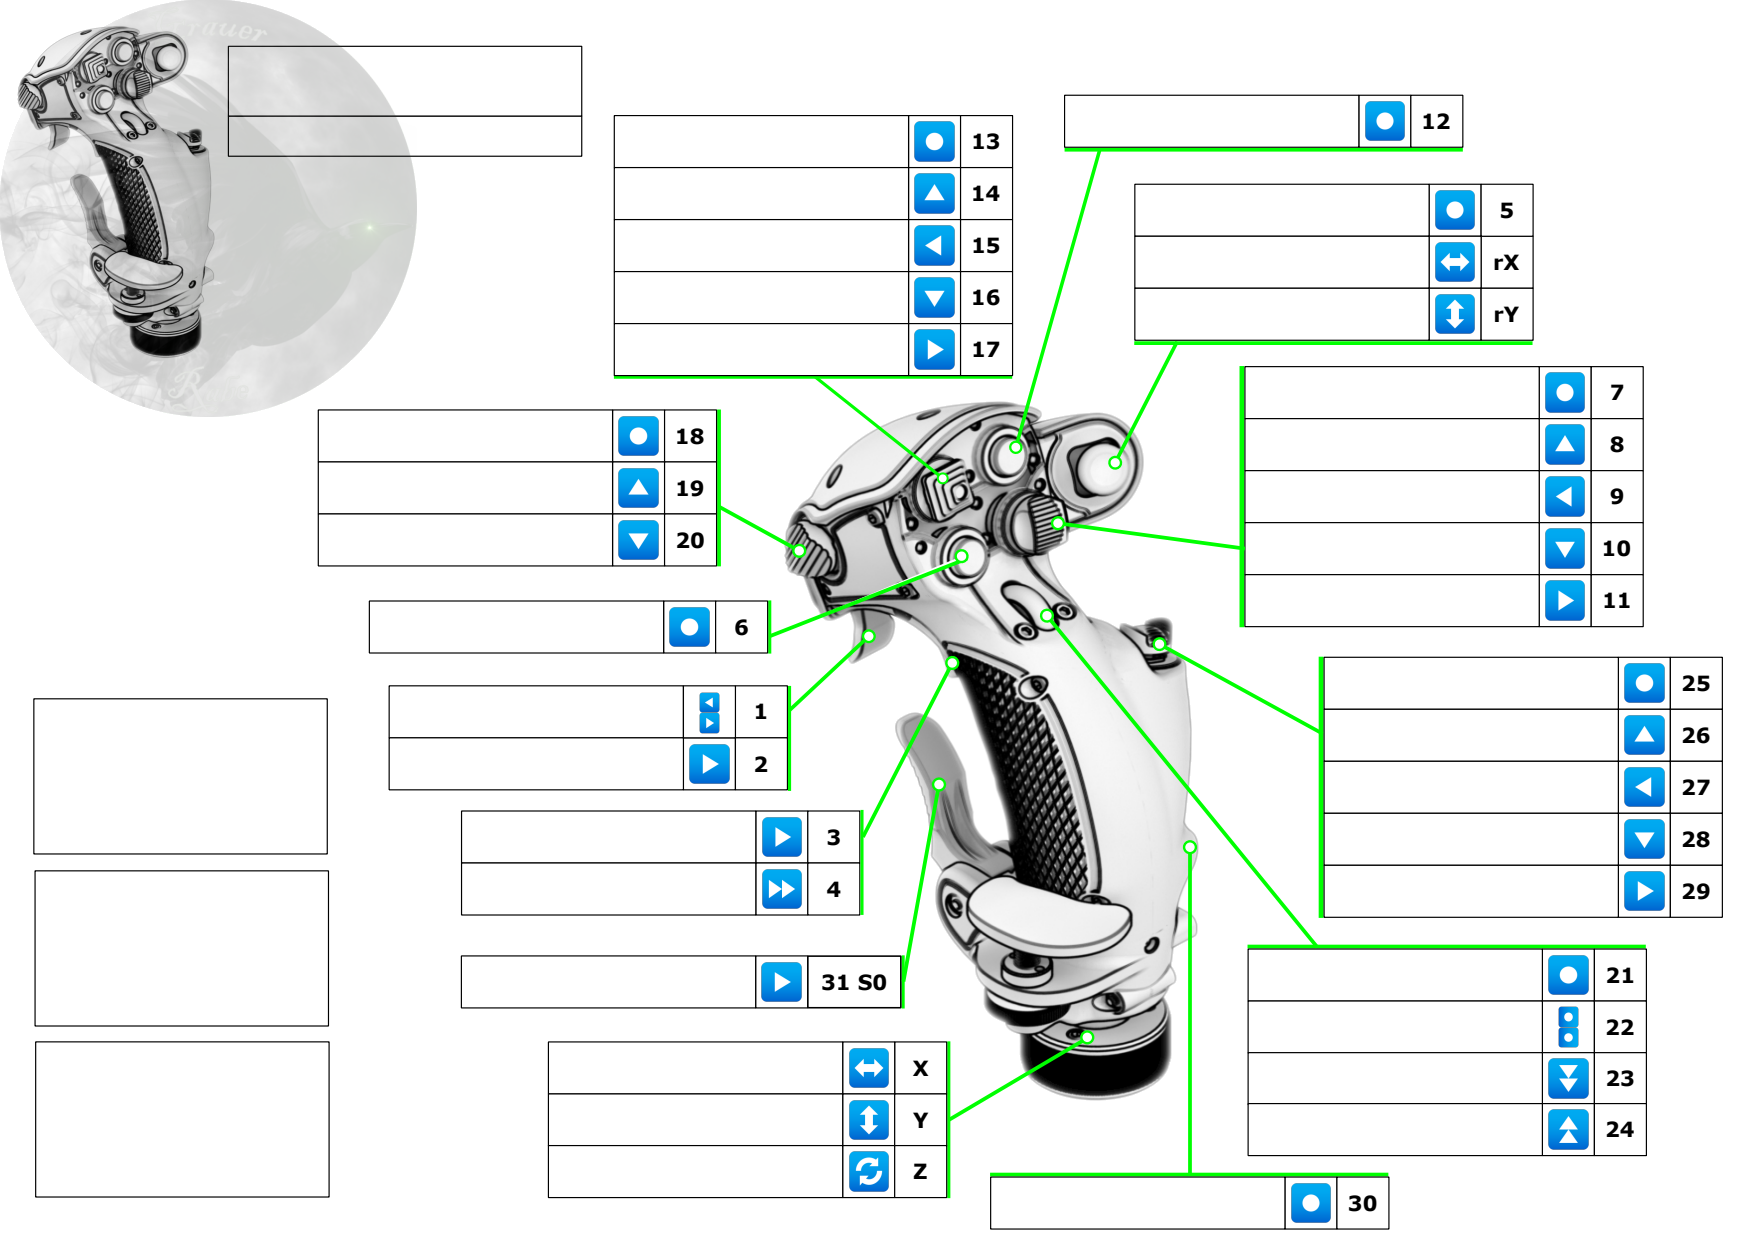
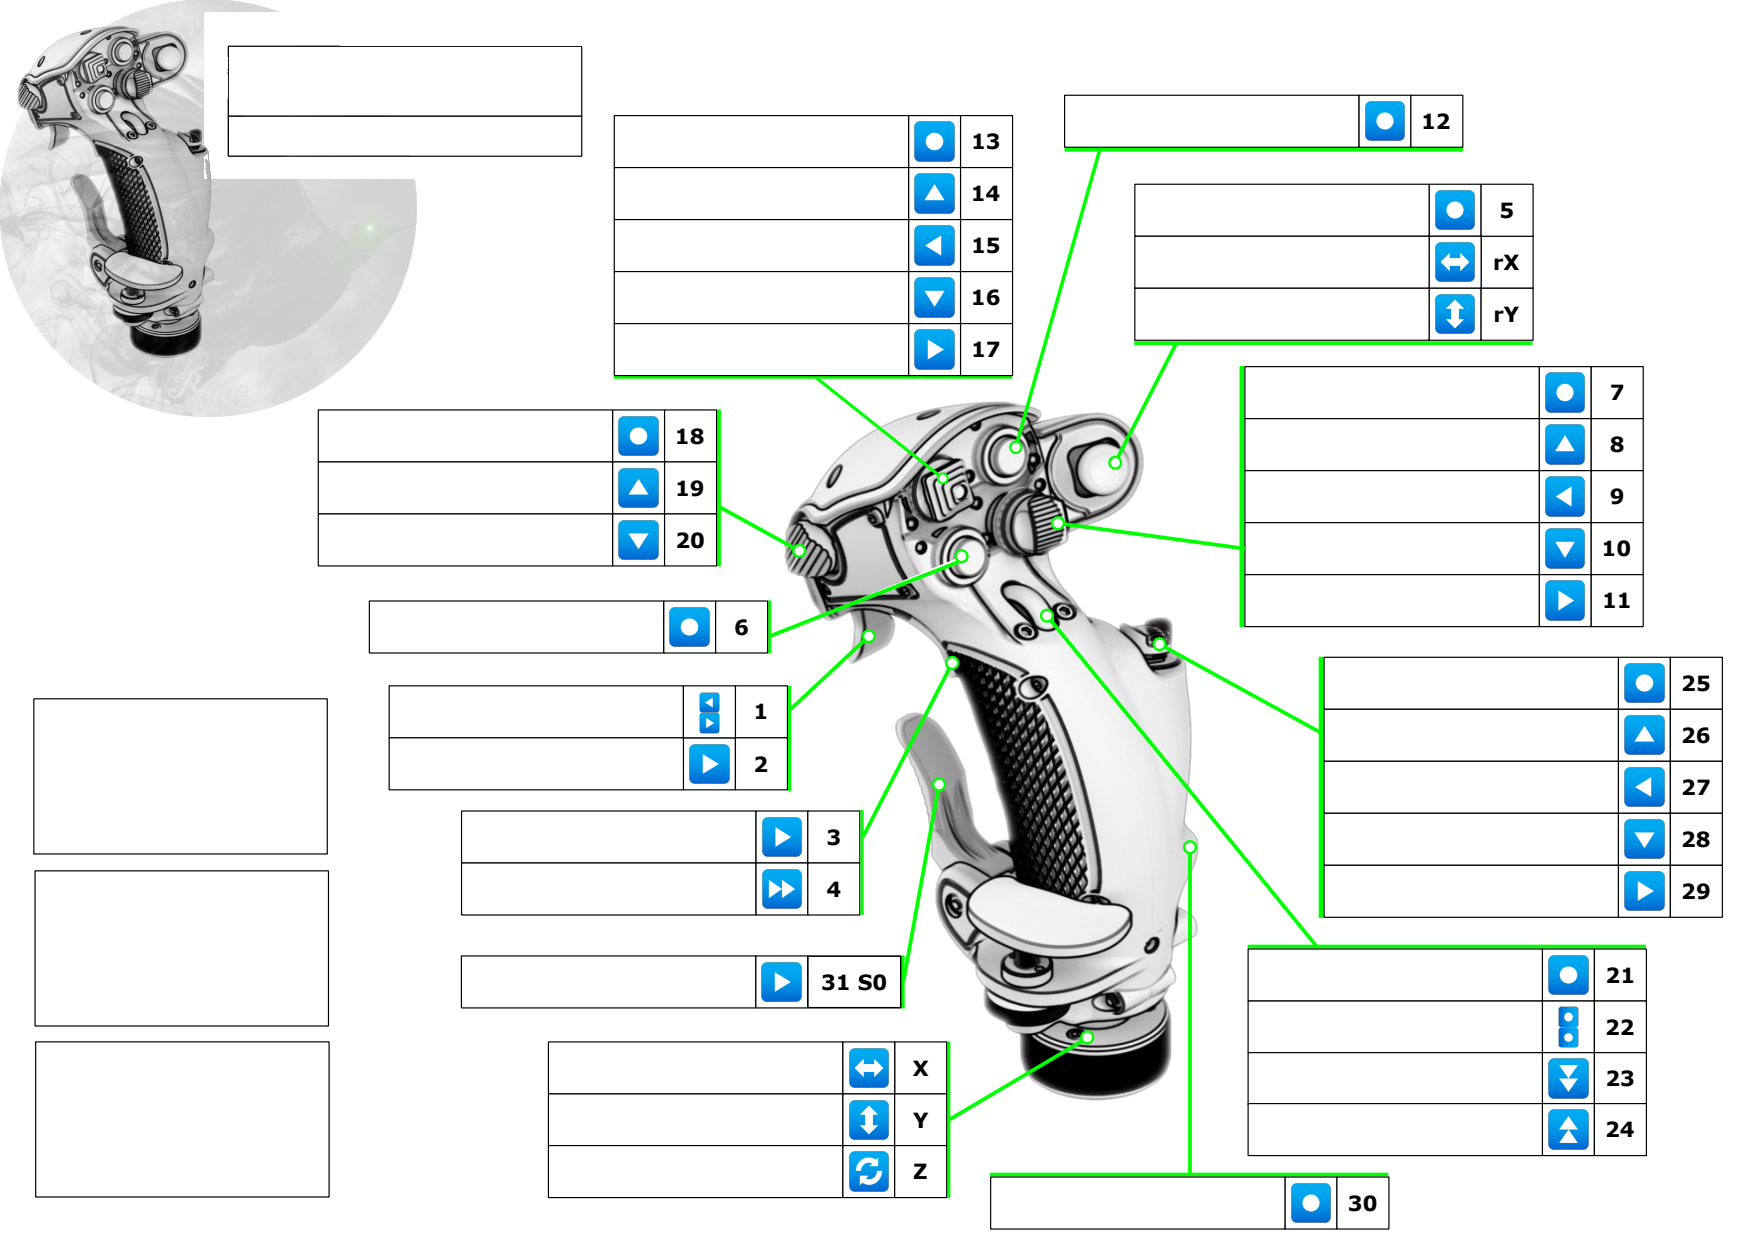
fix(vkb-template): innere weiße Boxen transparent gemacht (v0.4.16)
largeArea-Schwellwert in remove-bg.mjs von 200 auf 1 gesenkt,
damit auch kleine von Verbindungslinien eingeschlossene weiße Regionen
transparent werden.

Changed region(s): [[0.0923, 0.0, 0.2462, 0.1531]]

diff --git a/index.html b/index.html
@@ -333,7 +333,7 @@
 <div id="header">
   <div class="brand">
     <h1>⬡ Joystick-Map</h1>
-    <span class="version-badge" id="header-version">v0.4.15</span>
+    <span class="version-badge" id="header-version">v0.4.16</span>
   </div>
   <div class="hdr-actions">
     <div class="stick-picker" id="stickPicker">
@@ -512,10 +512,10 @@
   </div>
 </div>
 
-<div id="statusbar">STATUS: <span id="statmsg">Bereit</span> &nbsp;|&nbsp; Geändert: <span id="changed-count">0</span> &nbsp;|&nbsp; Version: <span id="app-version">v0.4.15</span> &nbsp;|&nbsp; Update: <span id="update-status">prüfen...</span></div>
+<div id="statusbar">STATUS: <span id="statmsg">Bereit</span> &nbsp;|&nbsp; Geändert: <span id="changed-count">0</span> &nbsp;|&nbsp; Version: <span id="app-version">v0.4.16</span> &nbsp;|&nbsp; Update: <span id="update-status">prüfen...</span></div>
 
 <script>
-const APP_VERSION = 'v0.4.15';
+const APP_VERSION = 'v0.4.16';
 const UPDATE_API_URL = 'https://api.github.com/repos/Xharig-1/Joystick-Map/releases/latest';
 const FIELDS_L = [{"name":"Titel","value":"Constellation Alpha L","left":109.7,"top":22.62,"width":169.4,"height":33.6},{"name":"Untertitel","value":"Star Citizen               v4.8.0-live","left":109.7,"top":56.48,"width":169.4,"height":19.2},{"name":"13","value":"Frachtanfrage\nAutomatische Landung\nVTOL (Toggle)\nAndocken","left":294.7,"top":56.03,"width":141.15,"height":24.95},{"name":"14","value":"Docking Modus","left":294.7,"top":81.23,"width":141.15,"height":24.95},{"name":"15","value":"Konfiguration wechseln\nFlügel ausklappen","left":295.45,"top":106.18,"width":141.15,"height":24.95},{"name":"16","value":"Landeerlaubnis / ATC\nLandegestell (Toggle)","left":294.7,"top":131.13,"width":141.15,"height":24.75},{"name":"17","value":"Türen (Toggle)","left":294.7,"top":155.63,"width":141.15,"height":24.95},{"name":"18","value":"Energie Gesamt (Toggle)","left":151.9,"top":197.38,"width":141.1,"height":24.95},{"name":"19","value":"Antriebe Energie (Toggle)","left":151.9,"top":222.33,"width":141.1,"height":24.95},{"name":"20","value":"Energie → Antriebe\nEnergie → Schilde\nEnergie → Waffen","left":151.9,"top":246.53,"width":141.1,"height":25},{"name":"6","value":"Ferngeschütz 1\nFerngeschütz 2\nFerngeschütz 3","left":176.35,"top":288.33,"width":141.15,"height":24.95},{"name":"1","value":"Waffenmodus","left":185.95,"top":328.88,"width":141.15,"height":24.95},{"name":"2","value":"Raketenmodus","left":185.95,"top":353.83,"width":141.15,"height":24.95},{"name":"3","value":"Nachbrenner\nBoost","left":220.75,"top":389.13,"width":141.15,"height":24.95},{"name":"4","value":"Spacebrake\nBremse","left":220.75,"top":414.28,"width":141.15,"height":24.7},{"name":"31 S0","value":"Rakete abfeuern (Kino)\nRakete abfeuern (Kino halten)\nScheinwerfer (Toggle)\nHead Tracking (Toggle)","left":220.55,"top":458.48,"width":141.1,"height":24.95},{"name":"X","value":"Strafe links/rechts\nYaw links/rechts","left":262.3,"top":499.48,"width":141.1,"height":25},{"name":"Y","value":"Strafe hoch/runter\nPitch hoch/runter","left":262.3,"top":524.73,"width":141.1,"height":24.7},{"name":"Z","value":"Rollen","left":262.3,"top":549.43,"width":141.1,"height":24.95},{"name":"12","value":"Decoupled (Toggle)","left":510.7,"top":45.68,"width":141.15,"height":24.95},{"name":"5","value":"3rd Person Kamera","left":544.3,"top":88.38,"width":141.4,"height":24.95},{"name":"rX","value":"Umsehen: Nach links/rechts","left":544.3,"top":113.33,"width":141.4,"height":25},{"name":"rY","value":"Umsehen: Nach oben/unten","left":544.3,"top":138.33,"width":141.4,"height":24.95},{"name":"7","value":"Ziel im Sichtbereich\nZiel Sichtbereich (Reset)","left":597.1,"top":175.73,"width":141.4,"height":25},{"name":"8","value":"Feind durchschalten\nFeind (Reset)","left":597.1,"top":200.73,"width":141.4,"height":24.95},{"name":"9","value":"Freund durchschalten\nFreund (Reset)","left":597.1,"top":225.68,"width":141.4,"height":24.95},{"name":"10","value":"Ziel freigeben","left":597.1,"top":250.63,"width":141.4,"height":24.95},{"name":"11","value":"Angreifer zurück\nAngreifer vor","left":597.1,"top":275.58,"width":141.4,"height":24.95},{"name":"25","value":"IR Flare abfeuern","left":635.3,"top":315.18,"width":141.1,"height":24.95},{"name":"26","value":"IR Flare +","left":635.3,"top":340.13,"width":141.1,"height":25},{"name":"27","value":"Ping","left":635.3,"top":365.13,"width":141.1,"height":24.95},{"name":"28","value":"IR Flare -","left":635.3,"top":390.08,"width":141.1,"height":24.95},{"name":"29","value":"Erweitertes HUD (Toggle)","left":635.3,"top":415.78,"width":141.1,"height":24.95},{"name":"21","value":"Bergbau Modus\nBetankung Modus\nBergung Modus","left":598.8,"top":455.13,"width":141.1,"height":24.95},{"name":"22","value":"Nachtsicht LAMP","left":598.8,"top":480.08,"width":141.1,"height":24.95},{"name":"23","value":"Speed Limit -\nTraktorstrahl -","left":598.8,"top":505.03,"width":141.1,"height":24.25},{"name":"24","value":"Speed Limit +\nTraktorstrahl +","left":598.8,"top":529.28,"width":141.1,"height":24.95},{"name":"30","value":"Rakete abfeuern (Kino)\nRakete abfeuern (Kino halten)\nScheinwerfer (Toggle)\nHead Tracking (Toggle)","left":475.78,"top":565.29,"width":141.1,"height":24.95},{"name":"Anmerkung 1","value":"FEHLT NOCH:\nEnergie Verteilung\nSchilde Energie (Toggle)\nPraezisions Modus (Halten / Tippen)\nSchub Forward / Backward","left":15.55,"top":335.13,"width":140.65,"height":74.6},{"name":"Anmerkung 2","value":"3,0       5,7\n2,1       3,6\n900m","left":16.05,"top":417.68,"width":140.9,"height":74.4},{"name":"Anmerkung 3","value":"","left":16.3,"top":499.98,"width":140.85,"height":74.4}];
 const FIELDS_R = [{"name":"Titel","value":"Constellation Alpha R","left":109.7,"top":22.13,"width":169.4,"height":33.6},{"name":"Untertitel","value":"Star Citizen               v4.8.0-live","left":109.7,"top":55.73,"width":169.4,"height":19.2},{"name":"12","value":"Lead/Lag PIPs","left":356.9,"top":37.98,"width":141.1,"height":24.95},{"name":"5","value":"Bombenabwurf (halten)","left":233.3,"top":88.38,"width":141.35,"height":24.95},{"name":"rX","value":"","left":233.3,"top":113.33,"width":141.35,"height":25},{"name":"rY","value":"","left":233.3,"top":138.33,"width":141.35,"height":24.95},{"name":"7","value":"QID festlegen","left":131.8,"top":175.73,"width":141.1,"height":25},{"name":"8","value":"Q-Snare QIDS","left":131.05,"top":200.73,"width":141.1,"height":24.95},{"name":"9","value":"Bergung: Structural","left":131.05,"top":226.18,"width":141.1,"height":24.95},{"name":"10","value":"Q-Störer QEDS","left":131.05,"top":250.63,"width":141.1,"height":24.95},{"name":"11","value":"EMP","left":131.05,"top":275.58,"width":141.1,"height":24.95},{"name":"25","value":"Bergbau Laser Typ\nNächster Raketentyp\nRaketentyp wechseln","left":93.1,"top":315.18,"width":141.15,"height":24.95},{"name":"26","value":"Raketen erhöhen","left":93.1,"top":340.13,"width":141.15,"height":25},{"name":"27","value":"ADS max. Zoom (halten)\nADS (Toggle)","left":93.1,"top":365.13,"width":141.15,"height":24.95},{"name":"28","value":"Raketen verringern","left":93.85,"top":390.08,"width":141.15,"height":24.95},{"name":"29","value":"Raketen zurücksetzen","left":93.1,"top":415.03,"width":141.15,"height":24.95},{"name":"21","value":"Scan Modus","left":129.6,"top":454.38,"width":141.1,"height":25.7},{"name":"22","value":"Scan Fokus -\nBergung Schmaler\nKonvergenz -\nBombenreichweite -","left":129.6,"top":480.08,"width":141.1,"height":24.95},{"name":"23","value":"Scan Fokus -\nBergung Schmaler\nKonvergenz -\nBombenreichweite -","left":129.6,"top":505.03,"width":141.1,"height":24.25},{"name":"24","value":"Scan Fokus +\nBergung Breiter\nKonvergenz +\nBombenreichweite +","left":131.1,"top":529.28,"width":141.1,"height":24.95},{"name":"30","value":"","left":252.62,"top":564.8,"width":141.1,"height":24.95},{"name":"13","value":"Bergung: Structural","left":528.95,"top":72.58,"width":141.1,"height":24.95},{"name":"14","value":"Bergung: Auflösen","left":529.7,"top":96.78,"width":141.1,"height":24.95},{"name":"15","value":"Bergbau: Abwerfen\nBergung: Rechts","left":530.45,"top":121.48,"width":141.1,"height":25},{"name":"16","value":"Bergung: Zerbrechen","left":529.7,"top":147.48,"width":141.1,"height":24.95},{"name":"17","value":"Bergung: Links","left":529.7,"top":172.43,"width":141.1,"height":24.95},{"name":"18","value":"Radar Flare","left":575.25,"top":205.23,"width":141.15,"height":24.75},{"name":"19","value":"IR Flare Panik","left":575.5,"top":229.98,"width":141.15,"height":24.95},{"name":"20","value":"Bergung: Zerbrechen","left":575.5,"top":254.93,"width":141.15,"height":24.95},{"name":"6","value":"","left":551.05,"top":292.38,"width":141.1,"height":24.95},{"name":"1","value":"SCM Modus","left":542.45,"top":329.63,"width":141.1,"height":24.95},{"name":"2","value":"NAV Modus","left":541.7,"top":354.58,"width":141.1,"height":24.95},{"name":"3","value":"Quantensprung\nQuantenantrieb\nScannen (halten)\nBergbau Laser (halten)\nBergung: Fokus\nSchuss / Primärwaffe\nRakete abfeuern","left":506.15,"top":389.13,"width":141.1,"height":24.95},{"name":"4","value":"Quantensprung\nQuantenantrieb\nScannen (halten)\nBergbau Laser (halten)\nBergung: Fokus\nSchuss / Primärwaffe\nRakete abfeuern","left":506.9,"top":414.08,"width":141.1,"height":24.7},{"name":"31 S0","value":"Schleudersitz\nSelbstzerstörung","left":506.15,"top":459.48,"width":141.1,"height":24.7},{"name":"x","value":"","left":465.1,"top":499.73,"width":141.15,"height":25},{"name":"Y","value":"","left":465.1,"top":524.73,"width":141.15,"height":24.7},{"name":"Z","value":"","left":465.1,"top":549.43,"width":141.15,"height":24.95},{"name":"Anmerkung 1","value":"","left":688.3,"top":26.73,"width":140.9,"height":74.4},{"name":"Anmerkung 2","value":"","left":689.25,"top":108.33,"width":140.65,"height":74.4},{"name":"Anmerkung 3","value":"","left":682.3,"top":422.73,"width":140.65,"height":74.4},{"name":"Anmerkung 4","value":"","left":683.75,"top":503.58,"width":140.9,"height":74.4}];

diff --git a/README.md b/README.md
@@ -7,16 +7,15 @@ Der Stick wird im Header ausgewaehlt, die passende Vorlage laedt automatisch.
 
 Das Projekt ist eine fruehe Testversion und darf gern ausprobiert werden.
 
-## Was ist neu — v0.4.15
+## Was ist neu — v0.4.16
 
-- **Transparente Template-Hintergründe** — weißer Seitenrand der Vorlagen entfernt, Eingabefelder bleiben weiß
-- Sieht in Dark- und Light-Modus sauber aus
+- **VKB-Template-Fix** — eingeschlossene weiße Boxen innerhalb der Verbindungslinien jetzt ebenfalls transparent
 
 Aeltere Aenderungen stehen im [CHANGELOG](CHANGELOG.md) und in den [Releases](../../releases).
 
 ## Version
 
-Aktuelle Version: `v0.4.15`
+Aktuelle Version: `v0.4.16`
 
 ## Download & Start
 

diff --git a/CHANGELOG.md b/CHANGELOG.md
@@ -4,6 +4,12 @@ Alle wichtigen Änderungen an diesem Projekt werden hier dokumentiert.
 
 Das Projekt nutzt SemVer: `MAJOR.MINOR.PATCH`.
 
+## v0.4.16 - 2026-05-23
+
+### Geändert
+
+- VKB-Gladiator-SCG-Templates: eingeschlossene weiße Boxen (von Verbindungslinien umrahmte Innenfelder) nun ebenfalls transparent — `largeArea`-Schwellwert in `remove-bg.mjs` von 200 auf 1 gesenkt.
+
 ## v0.4.15 - 2026-05-23
 
 ### Geändert
